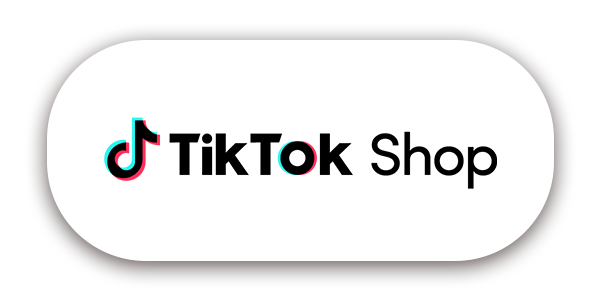
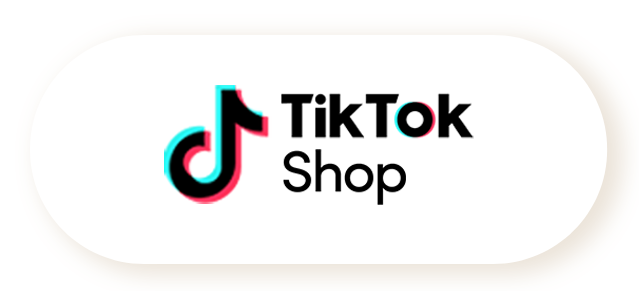
change link tokped to tiktok

Changed region(s): [[0.15, 0.2784, 0.84, 0.7113], [0.06, 0.0928, 0.99, 0.9278]]

diff --git a/src/components/Preview.vue b/src/components/Preview.vue
@@ -34,8 +34,8 @@ defineProps({
                 <div class="column is-12-mobile is-8-tablet has-text-centered px-0">
                     <div class="columns is-multiline is-mobile is-vcentered is-centered px-0">
                         <div class="column is-4-mobile is-6-tablet has-text-centered px-0">
-                            <a href="/wa" target="_blank">
-                                <img src="../assets/images/button_whatsapp.png" alt="">
+                            <a href="/out?url=https://www.tiktok.com/@moell.id" target="_blank">
+                                <img src="../assets/images/button_tiktok.png" alt="">
                             </a>
                         </div>
                         <div class="column is-4-mobile is-6-tablet px-0">
@@ -46,8 +46,8 @@ defineProps({
                     </div>
                     <div class="columns is-multiline is-mobile is-vcentered is-centered px-0">
                         <div class="column is-4-mobile is-6-tablet has-text-centered px-0">
-                            <a href="/out?url=https://tokopedia.link/sAfn7lIkFDb" target="_blank">
-                                <img src="../assets/images/button_tokped.png" alt="">
+                            <a href="/wa" target="_blank">
+                                <img src="../assets/images/button_whatsapp.png" alt="">
                             </a>
                         </div>
                         <div class="column is-4-mobile is-6-tablet has-text-centered px-0">
@@ -116,8 +116,8 @@ defineProps({
                 <div class="column is-12-mobile is-8-tablet has-text-centered px-0">
                     <div class="columns is-multiline is-mobile is-vcentered is-centered px-0">
                         <div class="column is-4-mobile is-6-tablet has-text-centered px-0">
-                            <a href="/wa" target="_blank">
-                                <img src="../assets/images/button_whatsapp.png" alt="">
+                            <a href="/out?url=https://www.tiktok.com/@moell.id" target="_blank">
+                                <img src="../assets/images/button_tiktok.png" alt="">
                             </a>
                         </div>
                         <div class="column is-4-mobile is-6-tablet px-0">
@@ -128,8 +128,8 @@ defineProps({
                     </div>
                     <div class="columns is-multiline is-mobile is-vcentered is-centered px-0">
                         <div class="column is-4-mobile is-6-tablet has-text-centered px-0">
-                            <a href="/out?url=https://tokopedia.link/sAfn7lIkFDb" target="_blank">
-                                <img src="../assets/images/button_tokped.png" alt="">
+                            <a href="/wa" target="_blank">
+                                <img src="../assets/images/button_whatsapp.png" alt="">
                             </a>
                         </div>
                         <div class="column is-4-mobile is-6-tablet has-text-centered px-0">

diff --git a/src/components/Out.vue b/src/components/Out.vue
@@ -3,11 +3,13 @@
     <div class="container">
       <div class="columns">
         <div class="column has-text-centered is-size-2-tablet  is-size-3-mobile"
-          v-if="this.$route.query.url === 'https://tokopedia.link/sAfn7lIkFDb'">
-          Anda akan segera kami alihkan ke Tokopedia
+          v-if="this.$route.query.url === 'https://www.tiktok.com/@moell.id'">
+          Anda akan segera kami alihkan ke Tiktok Shop
+
+
         </div>
         <div class="column has-text-centered is-size-2-tablet  is-size-3-mobile" v-else>
-          Anda akan segera kami alihkan ke Marketplace <a href="https://moell.id/">moell.id</a>
+          Anda akan segera kami alihkan ke Tiktok Shop
         </div>
       </div>
     </div>
@@ -43,7 +45,8 @@ export default {
 
 
     setTimeout(function () {
-      window.location = 'https://tokopedia.link/sAfn7lIkFDb';
+      window.location = 'https://www.tiktok.com/@moell.id';
+      // window.location = 'https://tokopedia.link/sAfn7lIkFDb';
     }, 2000);
 
   },
